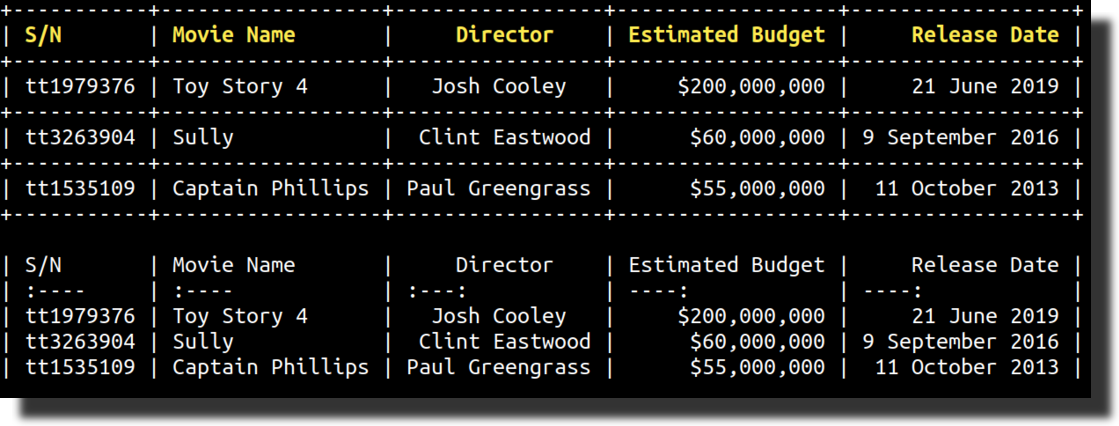
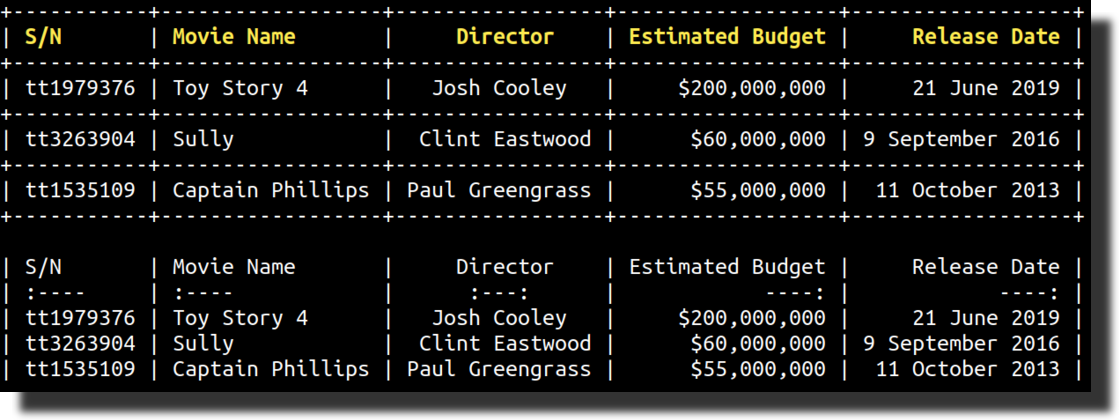
Updated markdown export image

diff --git a/include/tabulate/markdown_exporter.hpp b/include/tabulate/markdown_exporter.hpp
@@ -44,6 +44,10 @@ private:
             .column_separator("|")
             .corner("|");
         cell->set_text(c);
+	if (c == ":---:")
+	  cell->format().font_align(FontAlign::center);
+	else if (c == "----:")
+	  cell->format().font_align(FontAlign::right);
         alignment_row->add_cell(cell);
       }
 
